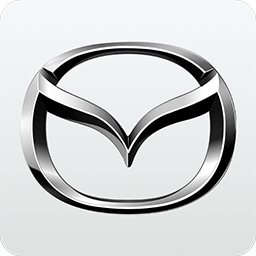
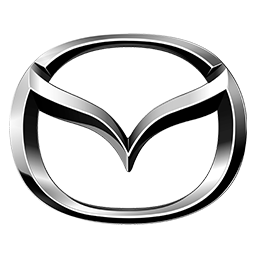
feat: sensors
* add Urea tank level to diagnostic sensors for diesel (untested)
* add SocEcmAEst to dev list by request
* fix: light icon has transparent background as well now

diff --git a/custom_components/mazda_cs/sensor.py b/custom_components/mazda_cs/sensor.py
@@ -342,13 +342,11 @@ SENSOR_ENTITIES = [
         value=lambda data: round(data["status"]["driveInformation"]["drive1FuelConsumptionL100km"] * 0.425144, 2),
     ),
     MazdaSensorEntityDescription(
-        key="oil_health_percentage",
-        translation_key="oil_health_percentage",
+        key="dr_oil_deteriorate_level",
+        translation_key="dr_oil_deteriorate_level",
         icon="mdi:oil",
-        native_unit_of_measurement=PERCENTAGE,
-        state_class=SensorStateClass.MEASUREMENT,
         entity_category=EntityCategory.DIAGNOSTIC,
-        is_supported=lambda data: data["hasFuel"] and data["status"]["oilMaintenanceInfo"]["oilHealthPercentage"] is not None,
+        is_supported=lambda data: data["enableDevSensors"] and data["hasFuel"] and data["status"]["oilMaintenanceInfo"]["oilHealthPercentage"] is not None,
         value=lambda data: data["status"]["oilMaintenanceInfo"]["oilHealthPercentage"],
     ),
     MazdaSensorEntityDescription(
@@ -391,6 +389,16 @@ SENSOR_ENTITIES = [
         entity_category=EntityCategory.DIAGNOSTIC,
         is_supported=lambda data: data["isDiesel"] and data["status"]["scrMaintenanceInfo"]["nextScrMaintenanceDistance"] is not None,
         value=lambda data: data["status"]["scrMaintenanceInfo"]["nextScrMaintenanceDistance"],
+    ),
+    MazdaSensorEntityDescription(
+        key="urea_tank_level",
+        translation_key="urea_tank_level",
+        icon="mdi:car-cruise-control",
+        native_unit_of_measurement=PERCENTAGE,
+        state_class=SensorStateClass.MEASUREMENT,
+        entity_category=EntityCategory.DIAGNOSTIC,
+        is_supported=lambda data: data["isDiesel"] and data["status"]["scrMaintenanceInfo"]["ureaTankLevel"] is not None,
+        value=lambda data: round(data["status"]["scrMaintenanceInfo"]["ureaTankLevel"] / 255 * 100, 1),
     ),
     MazdaSensorEntityDescription(
         key="tns_lamp",
@@ -439,6 +447,14 @@ SENSOR_ENTITIES = [
         entity_category=EntityCategory.DIAGNOSTIC,
         is_supported=lambda data: data["enableDevSensors"] and data["status"]["vehicleCondition"]["pwSavMode"] is not None,
         value=lambda data: data["status"]["vehicleCondition"]["pwSavMode"],
+    ),
+    MazdaSensorEntityDescription(
+        key="soc_ecm_a_est",
+        translation_key="soc_ecm_a_est",
+        icon="mdi:car-battery",
+        entity_category=EntityCategory.DIAGNOSTIC,
+        is_supported=lambda data: data["enableDevSensors"] and data["status"]["batteryStatus"]["socEcmAEst"] is not None,
+        value=lambda data: data["status"]["batteryStatus"]["socEcmAEst"],
     ),
 ]
 

diff --git a/custom_components/mazda_cs/pymazda/client.py b/custom_components/mazda_cs/pymazda/client.py
@@ -263,6 +263,9 @@ class Client:  # noqa: D101
                 "engineState": remote_info.get("ElectricalInformation", {}).get("EngineState"),
                 "powerControlStatus": remote_info.get("ElectricalInformation", {}).get("PowerControlStatus"),
             },
+            "batteryStatus": {
+                "socEcmAEst": remote_info.get("BatteryStatus", {}).get("SocEcmAEst"),
+            },
             "vehicleCondition": {
                 "pwSavMode": alert_info.get("VehicleCondition", {}).get("PwSavMode"),
             },
